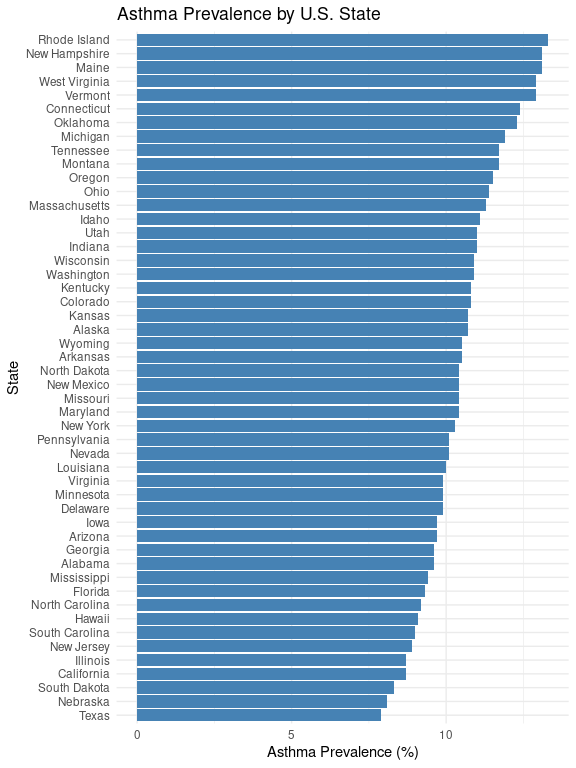
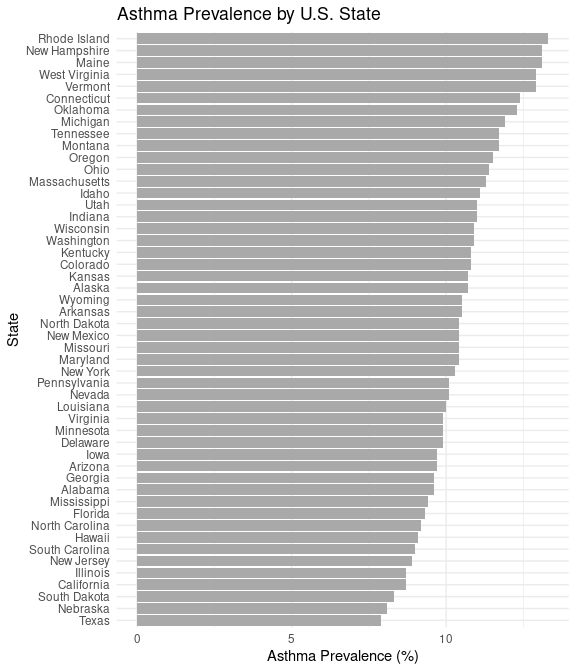
second push with .md file

diff --git a/Final-Project-BIOL-3070-Crook.md b/Final-Project-BIOL-3070-Crook.md
@@ -11,7 +11,8 @@ Whitney Crook
   - [Prediction](#prediction)
 - [METHODS](#methods)
   - [Procedure](#procedure)
-  - [Asthma Prevalence by State](#asthma-prevalence-by-state)
+  - [Bar Plot Showing Asthma Prevalence by
+    State](#bar-plot-showing-asthma-prevalence-by-state)
   - [Scatter Plot by State](#scatter-plot-by-state)
   - [Box Plot for Asthma Prevalence by
     Region](#box-plot-for-asthma-prevalence-by-region)
@@ -28,7 +29,23 @@ Write at the end. Summarize the study.
 
 # BACKGROUND
 
-Write like a funnel from general to specific
+Asthma is a chronic lung condition that can cause the airways to become
+inflamed at times making it harder to breathe. It is a very common
+condition in the United States. According to the CDC, about 1 in 13
+people have asthma in the United States (CDC, 2025). Asthma symptoms can
+be triggered by many things, including pollen, exercise, cold air, or
+air pollution.
+
+Air pollution can increase the risk of developing asthma and as well as
+making symptoms worse if a person already has asthma. The airborne
+particles that causes air pollution can irritate airways which triggers
+asthma symptoms (Asthma and Allergy Foundation of America).
+
+There is typically more air pollution in more highly populated regions.
+For this reason, we hypothesize that more urbanized regions with higher
+population density will be associated with higher asthma prevalence. The
+Northeastern United States are more highly populated than the West, so
+we predict that the Northeast will have a higher asthma prevalence.
 
 ``` r
 library(ggplot2)
@@ -86,13 +103,13 @@ population density.
 
 ### Procedure
 
-## Asthma Prevalence by State
+## Bar Plot Showing Asthma Prevalence by State
 
 ``` r
 library(ggplot2)
 
 ggplot(asthma_data, aes(x = reorder(state, prevalence), y = prevalence)) +
-  geom_col(fill = "steelblue") +
+  geom_col(fill = "darkgray") +
   coord_flip() +
   labs(title = "Asthma Prevalence by U.S. State",
        x = "State",
@@ -158,9 +175,9 @@ highest asthma prevalence
     Most recent asthma data. U.S. Department of Health and Human
     Services.
     <https://www.cdc.gov/asthma-data/about/most-recent-asthma-data.html>
-
-Look into these as possible sources
-<https://pmc.ncbi.nlm.nih.gov/articles/PMC3620776/?utm_source=chatgpt.com>
-<https://pmc.ncbi.nlm.nih.gov/articles/PMC3620776/?utm_source=chatgpt.com>
-<https://pubmed.ncbi.nlm.nih.gov/34606402/>
-<https://ij-healthgeographics.biomedcentral.com/articles/10.1186/s12942-023-00343-6?utm_source=chatgpt.com>
+3.  National Heart, Lung, and Blood Institute. (2025). Asthma. U.S.
+    Department of Health and Human Services.
+    <https://www.nhlbi.nih.gov/health/asthma>
+4.  Asthma and Allergy Foundation of America. (n.d.). Air pollution and
+    asthma. Asthma & Allergy Foundation of America.
+    <https://aafa.org/asthma/asthma-triggers-causes/air-pollution-smog-asthma/>
